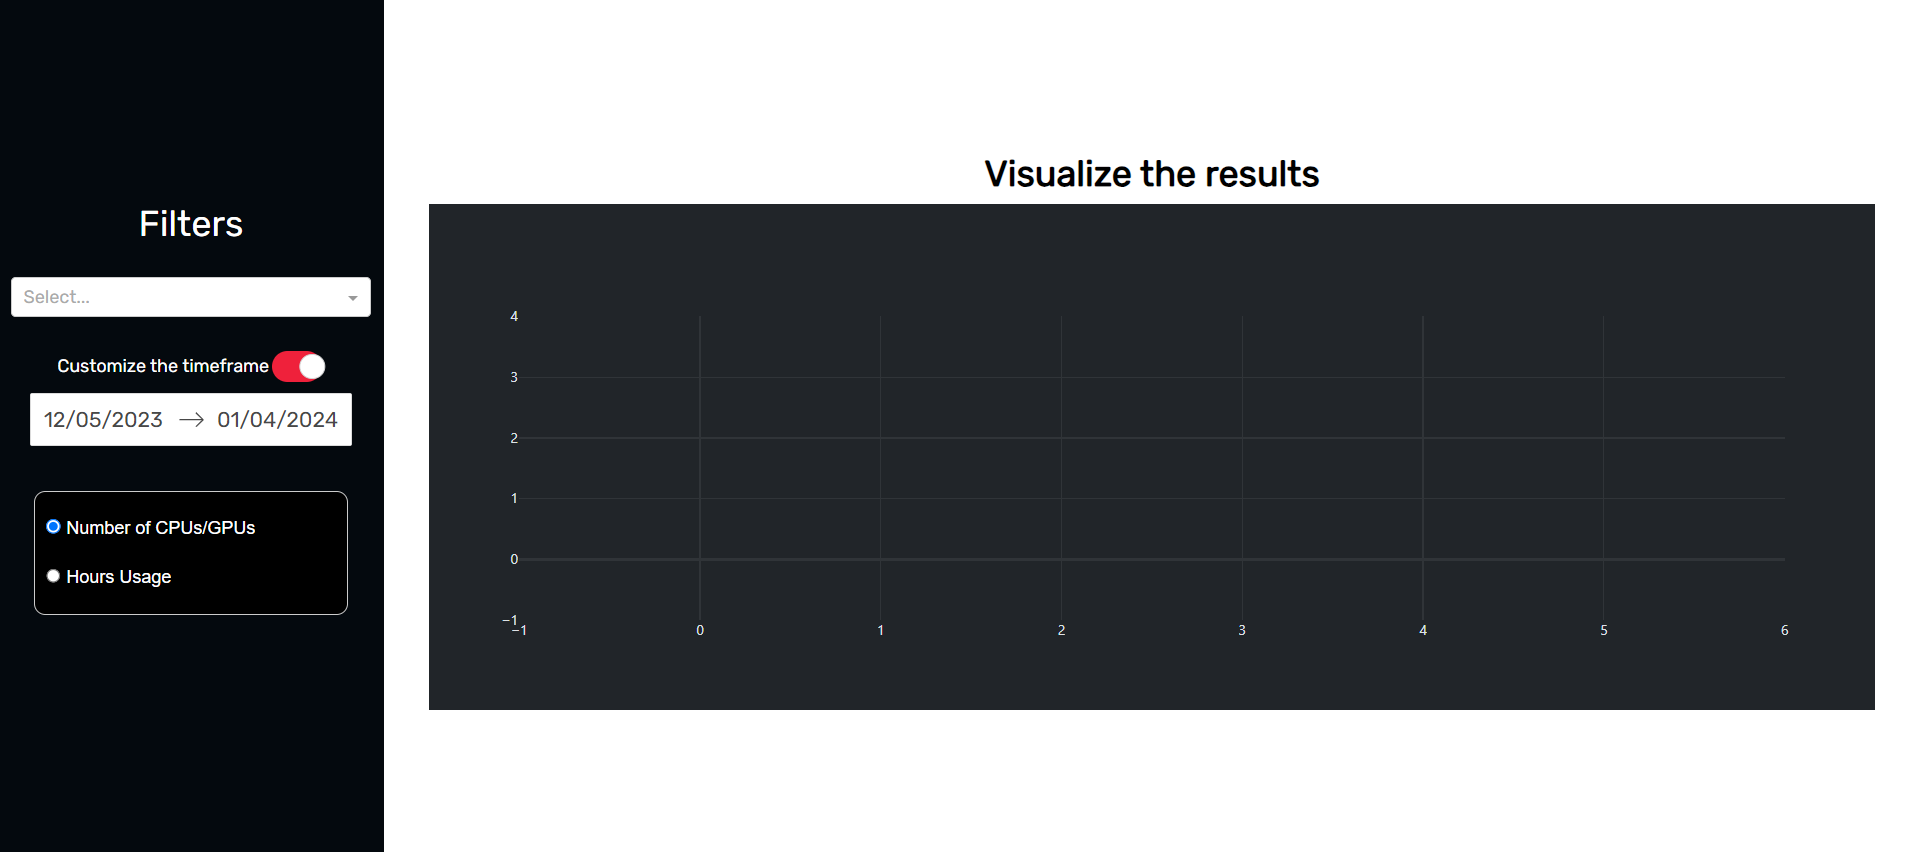
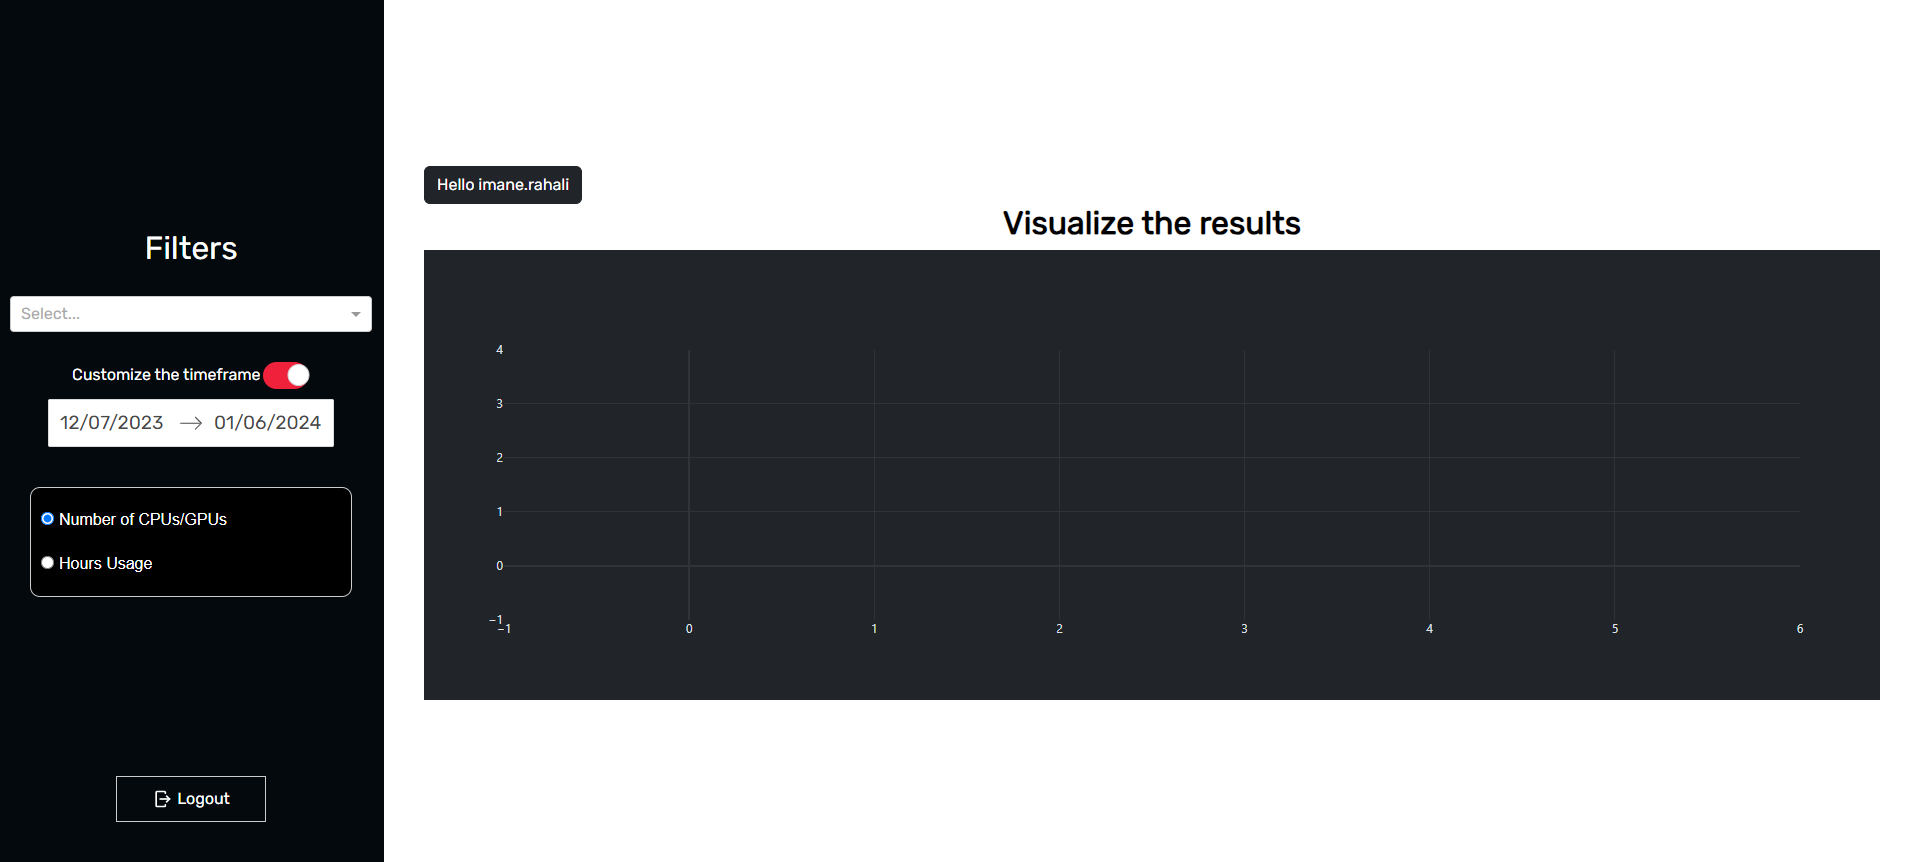
Added Logout Feature

Changed region(s): [[0.0, 0.1831, 0.9885, 0.8545], [0.0618, 0.9155, 0.1236, 0.946], [0.1545, 0.6714, 0.1853, 0.7019]]

diff --git a/templates/login.html b/templates/login.html
@@ -21,10 +21,10 @@
   align-items: center;
   flex-direction: column;
 
-  background-color: green;
+  background-color: #201B2C;
   font-size: 1.6rem;
   font-family: "Open Sans", sans-serif;
-  color: #2b3e51;
+  color: #05EA81;
 }
 
 h2 {
@@ -51,13 +51,13 @@ a:visited:focus,
 a:visited:hover,
 a:active:focus,
 a:active:hover {
-  color: #329dd5;
+  color: #05EA81;
   -webkit-transition: all 0.2s ease;
   transition: all 0.2s ease;
 }
 
 #login-form-wrap {
-  background-color: yellow;
+  background-color: #2F2841;
   width: 35%;
   margin: 30px auto; /* Changed margin to "auto" for centering */
   text-align: center;
@@ -83,7 +83,7 @@ input {
 }
 
 input[type="text"],
-input[type="email"] {
+input[type="password"] {
   width: 100%;
   padding: 0 0 0 10px;
   margin: 0;
@@ -99,16 +99,16 @@ input[type="email"] {
   background: none;
 }
 input[type="text"]:focus,
-input[type="email"]:focus {
-  border-color: #3ca9e2;
+input[type="password"]:focus {
+  border-color: #05EA81;
 }
 input[type="text"]:focus:invalid,
-input[type="email"]:focus:invalid {
+input[type="password"]:focus:invalid {
   color: #cc1e2b;
   border-color: #cc1e2b;
 }
 input[type="text"]:valid ~ .validation,
-input[type="email"]:valid ~ .validation {
+input[type="password"]:valid ~ .validation {
   display: block;
   border-color: #0C0;
 }
@@ -119,7 +119,7 @@ input[type="email"]:valid ~ .validation span {
   border-radius: 6px;
 }
 input[type="text"]:valid ~ .validation span:first-child,
-input[type="email"]:valid ~ .validation span:first-child {
+input[type="password"]:valid ~ .validation span:first-child {
   top: 30px;
   left: 14px;
   width: 20px;
@@ -128,7 +128,7 @@ input[type="email"]:valid ~ .validation span:first-child {
           transform: rotate(-45deg);
 }
 input[type="text"]:valid ~ .validation span:last-child,
-input[type="email"]:valid ~ .validation span:last-child {
+input[type="password"]:valid ~ .validation span:last-child {
   top: 35px;
   left: 8px;
   width: 11px;
@@ -150,8 +150,7 @@ input[type="email"]:valid ~ .validation span:last-child {
 input[type="submit"] {
   border: none;
   display: block;
-  background-color: #3ca9e2;
-  color: #fff;
+  background-color: #05EA81;
   font-weight: bold;
   text-transform: uppercase;
   cursor: pointer;
@@ -162,9 +161,10 @@ input[type="submit"] {
   display: inline-block;
   cursor: pointer;
   text-align: center;
+  color: #201B2C;
 }
 input[type="submit"]:hover {
-  background-color: #329dd5;
+  background-color: #05EA81;
   -webkit-transition: all 0.2s ease;
   transition: all 0.2s ease;
 }
@@ -176,6 +176,7 @@ input[type="submit"]:hover {
   width: 100%;
   padding: 10px 0;
   border-radius: 0 0 20px 20px;
+  height: 50px;
 }
 </style>
 <body>
@@ -193,7 +194,7 @@ input[type="submit"]:hover {
         <div id="login-form-wrap" >
 
             <h2>Login</h2>
-            <form id="login-form" action="/dashboard" method="post">
+            <form id="login-form" action="/login" method="post">
               <p>
               <input type="text" id="username" name="username" placeholder="Username" required><i class="validation"><span></span><span></span></i>
               </p>
@@ -206,7 +207,7 @@ input[type="submit"]:hover {
             </form>
 
             <div id="create-account-wrap">
-              <p>Un petit Message de  <a href="#">gentilesse</a>.<p>
+              <p><p>
             </div>
 <!--create-account-wrap-->
 

diff --git a/app.py b/app.py
@@ -1,4 +1,4 @@
-from flask import Flask, render_template, request, redirect
+from flask import Flask, render_template, request, redirect, session
 import pandas as pd
 import dash
 from dash import dcc, html
@@ -14,16 +14,21 @@ from dash import html, Input, Output
 import dash_daq as daq
 import dash_bootstrap_components as dbc
 from dash_bootstrap_templates import load_figure_template
+from dash_iconify import DashIconify
 
 # Load template
 load_figure_template("bootstrap_dark")
 
 ssh = None
+ssh_username = ""
 
-app = Flask(__name__, static_url_path="/templates")
+app = Flask(__name__)
+
+# Set the secret key for session management.
+app.secret_key = 'software_engineer'
 
 # Initialize Dash app within Flask app 
-dash_app = dash.Dash(__name__, server=app, url_base_pathname='/dashboard/', external_stylesheets=[dbc.themes.BOOTSTRAP, "https://fonts.googleapis.com/css2?family=Rubik&display=swap"])
+dash_app = dash.Dash(__name__, server=app, url_base_pathname='/dashboard/', external_stylesheets=[dbc.themes.BOOTSTRAP, "https://fonts.googleapis.com/css2?family=Rubik&display=swap", "https://use.fontawesome.com/releases/v5.7.2/css/all.css"])
 
 # Function to get all the users. These users will be displayed in the dropdown menu
 def get_slurm_users():
@@ -48,9 +53,10 @@ def get_slurm_users():
 def index():
     return render_template('login.html')
 
-@app.route('/dashboard', methods=['POST'])
-def dashboard():
+@app.route('/login', methods=['POST'])
+def login():
     global ssh
+    global ssh_username
     ssh_username = request.form['username']
     ssh_password = request.form['password']
     ssh_host = "simlab-cluster.um6p.ma"
@@ -58,14 +64,38 @@ def dashboard():
     # Establish SSH connection
     ssh = establish_ssh_connection(ssh_host, ssh_username, ssh_password)
     if ssh:
+        session['username'] = ssh_username
+        session['logged_in'] = True
         return redirect('/dashboard/')
     else:
         return render_template('login.html', error="SSH connection failed")
 
+@app.route('/dashboard')
+def dashboard_view():
+    if 'logged_in' in session:
+        return dash_app.index()
+    else:
+        return redirect('/')
+
+@app.route('/logout')
+def logout():
+    global ssh
+    if ssh:
+        ssh.close()  # Close the SSH connection
+        ssh = None   # Reset the global variable
+    session.pop('logged_in', None)  # Clear the session variable
+    # Redirect to the login page
+    return redirect('/')
+
 
 # Function to serve the layout, called each time the page is loaded
 def serve_layout():
+    global ssh_username
     slurm_users = get_slurm_users()  # Fetch users from Slurm DB
+
+    # Logout Icon
+    icon = DashIconify(icon="line-md:log-out", width=20)
+
     return html.Div([
     # Sidebar
     html.Div([
@@ -170,8 +200,32 @@ def serve_layout():
                 )
                 ],
                 style={}
-            )
+            ),
+            # Logout button
+            html.Div([
+                icon,
+                html.A("Logout", href="/logout", style={
+                    'color': 'white',
+                    'display': 'flex', 
+                    'alignItems': 'center', 
+                    'justifyContent': 'center',
+                    "text-decoration": "none",
+                    'margin-left': '5px'})
+            ], style={
+                    "position": "absolute",
+                    "bottom": "50px",
+                    "left": "50%",
+                    'margin-left': '-75px',
+                    'display': 'flex', 
+                    'alignItems': 'center', 
+                    'justifyContent': 'center', 
+                    'justifyContent': 'center',
+                    'color': 'white',
+                    'border': '1px solid #ccc',
+                    'padding': '10px',
+                    'width': '150px'})
     ], style={
+        "position": 'relative',
         'display': 'flex',  
         'flexDirection': 'column',  
         'justifyContent': 'center', 
@@ -186,6 +240,18 @@ def serve_layout():
     
     # Main content area
     html.Div([
+        html.Div([dbc.Button(
+                [
+                    f"Hello, {ssh_username}!",
+                ],
+                color="dark",
+                className="me-1"
+            )],
+            style={"position": "relative",
+                   "cursor": "context-menu",
+                   'font-weight': 'bold'
+                   }
+        ), 
         html.H2("Visualize the results", style={'textAlign': 'center', 'color': '#000', 'font-weight': 'bold'}),
         dcc.Graph(id='usage-graph')
     ], style={

diff --git a/collect_data.py b/collect_data.py
@@ -51,7 +51,7 @@ def collect_data_datetime_based(ssh, user, start_date, end_date):
     
     # Define the expected header
     expected_header = "JobID|User|AllocCPUS|AllocGRES|Start|End"
-
+ 
     # Check if result contains only the header (i.e. if the result is empty)
     if result.strip() == expected_header: 
         return pd.DataFrame() 

diff --git a/README.md b/README.md
@@ -5,11 +5,12 @@ This project is designed to provide an efficient way to monitor and display the 
 
 ## Features
 - **Login Page:** Secure entry point requiring username and password.
+![Login](images/Login.png)
 - **SSH Connection:** Connects to SimLab using SSH for data retrieval.
 ![Dashboard](images/Dashboard.png)
 - **User Dropdown Menu:** Displays all users of the cluster, allowing for specific user analysis.
 - **Timeframe Filtering:** Offers predefined timeframes (e.g., 1 month ago, 2 months ago, ..., up to 1 year ago) or a custom timeframe.
-![Custom Timeframe](images/CustomTimeframe.png)
+![Custom Timeframe](images/Dashboard.png)
 ![Predefined Timeframes](images/PredefinedTimeframe.png)
 - **Visualization Options:** Choose between two plots:
     - Number of CPUs/GPUs used
@@ -18,8 +19,10 @@ This project is designed to provide an efficient way to monitor and display the 
 ![Option 1](images/Option1.png)
 ![Option 2](images/Option2.png)
 
+
 ## How to Use
 1. **Start the Application:** Launch the app and navigate to the login page.
 2. **Login:** Enter your SimLab credentials and connect.
 3. **Select User and Timeframe:** From the dropdown menu, select the user and specify the timeframe for the analysis.
 4. **Choose and View Plot:** Select the desired plot type and view the graphical representation of resource usage.
+4. **Logout** 
